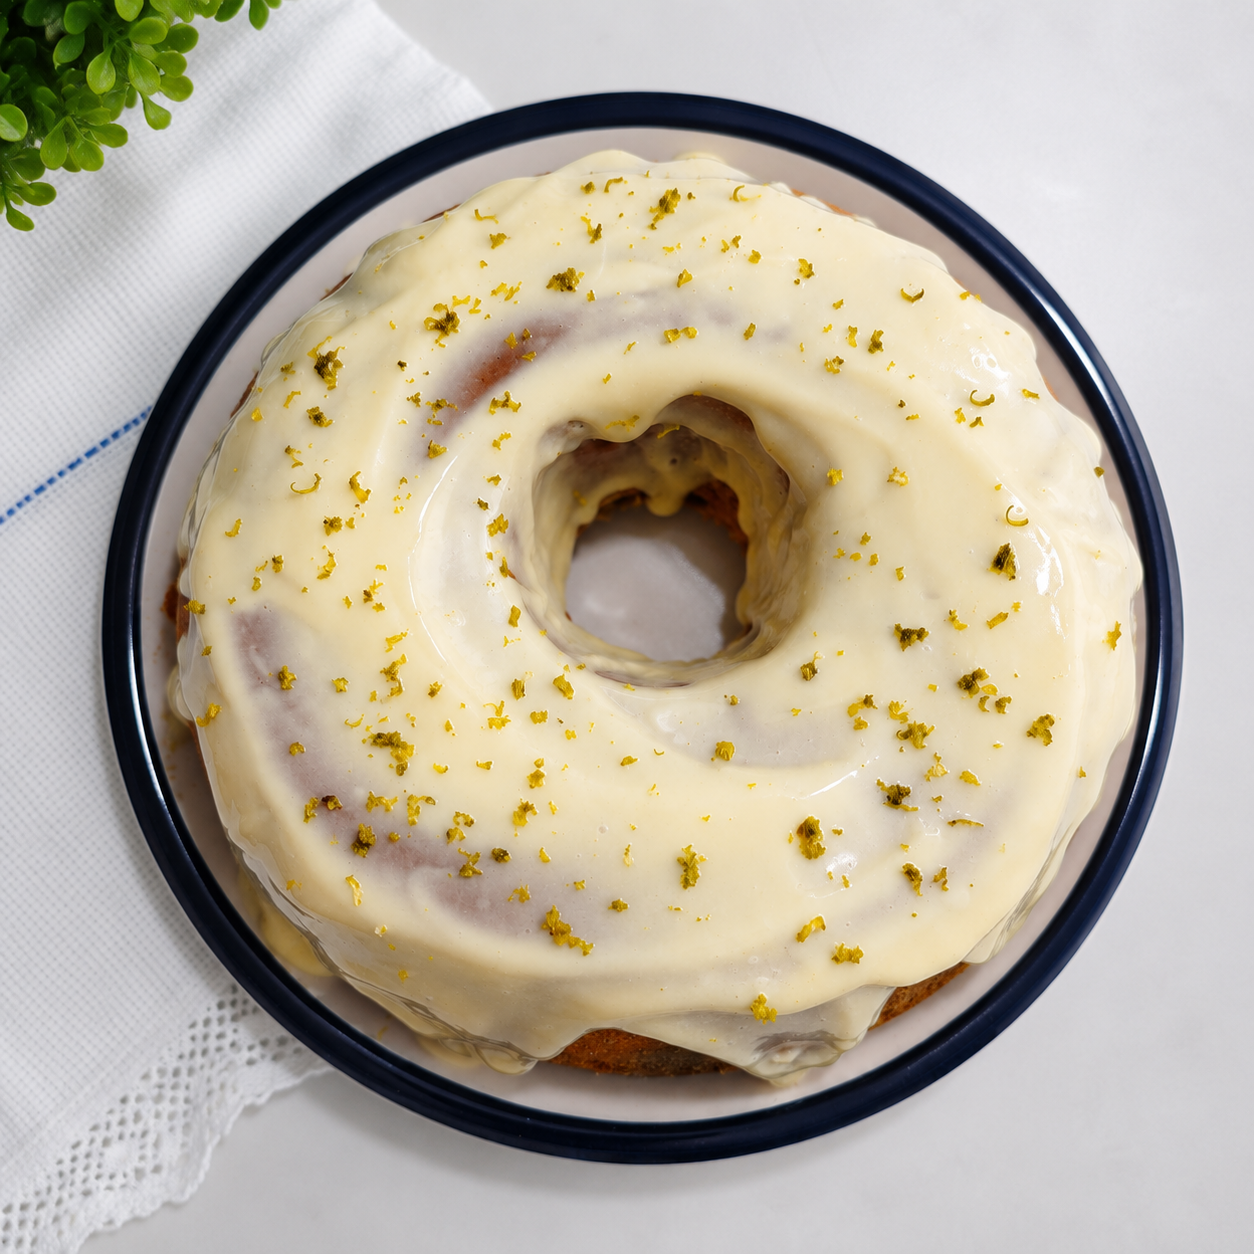
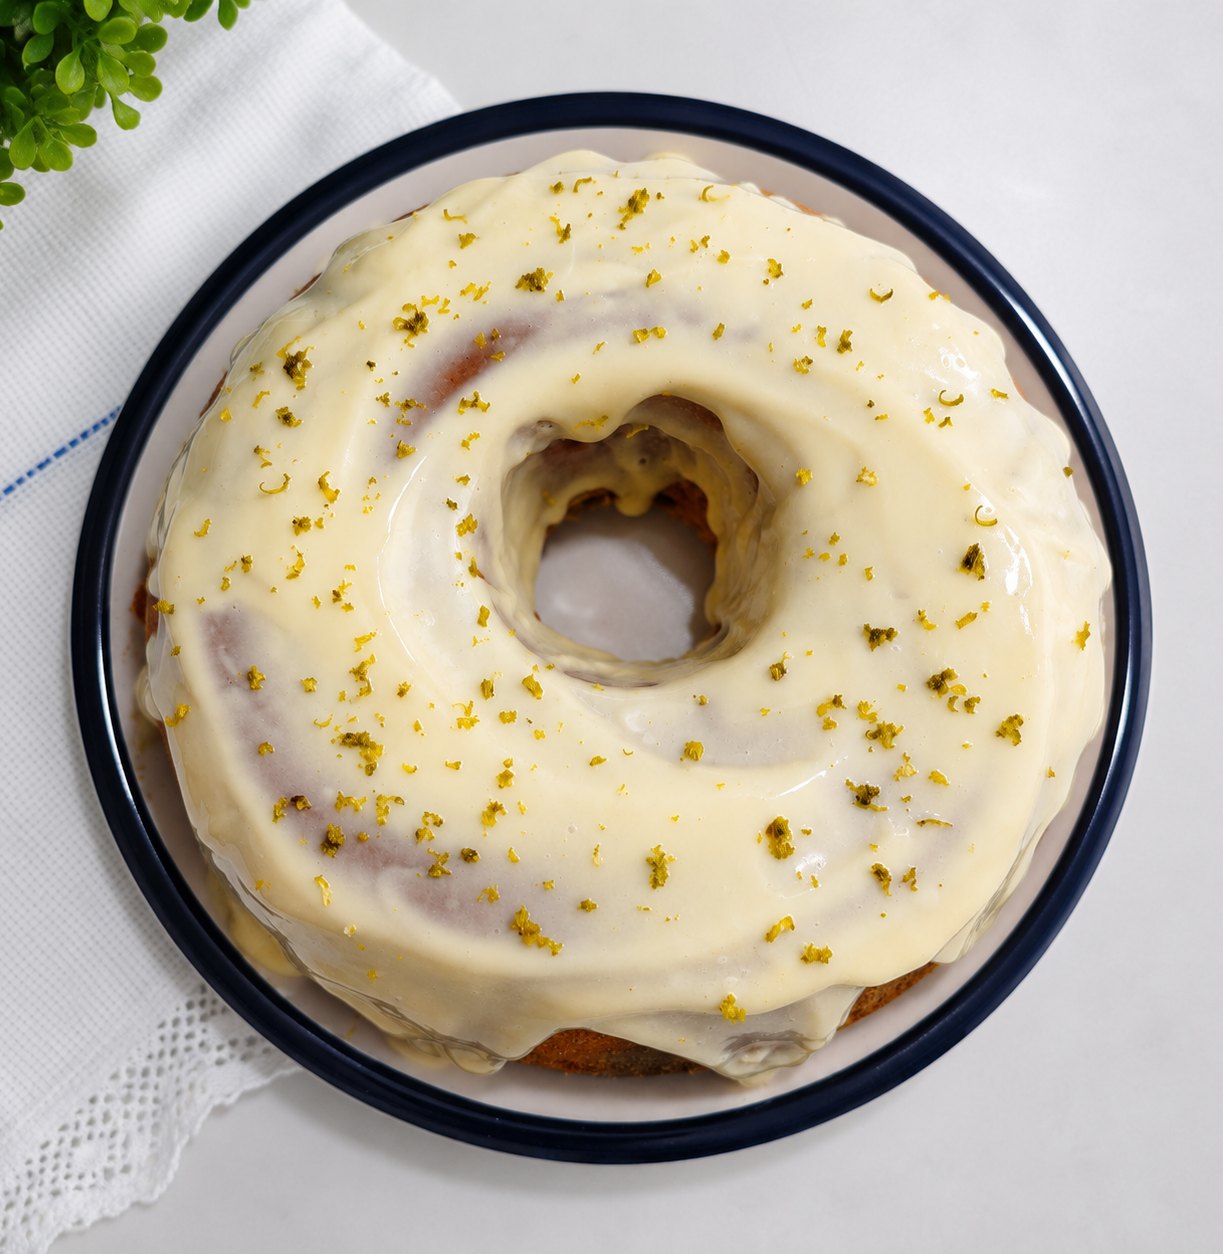
Novos produtos

diff --git a/public/script.js b/public/script.js
@@ -27,12 +27,23 @@ const produtos = [
       { type: "image", src: "/imgs/foto-brownie01.png", alt: "Brownie Tradicional" }
     ]
   },
+
+  {
+    nome: "Brownie de Prestígio",
+    categoria: "Doces Prontos",
+    desc: "Brownie de prestígio, com aquela casquinha crocante por fora e um centro super úmido e cremoso, combinado com um recheio generoso de coco. Feito na hora do seu pedido.",
+    preco: "R$ 11,99",
+    unidade: "unidade",
+    medias: [
+      { type: "image", src: "/imgs/foto-brownie-coco.png", alt: "Brownie Coco" }
+    ]
+  },
   
   {
     nome: "Brownie de Doce de Leite",
     categoria: "Doces Prontos",
     desc: "Por fora, uma casquinha delicadamente crocante. Por dentro, um recheio de doce de leite cremoso e cheio de sabor.",
-    preco: "R$ 10,00",
+    preco: "R$ 10,99",
     unidade: "unidade",
     medias: [
       { type: "image", src: "/imgs/foto-brownie-doceleite01.jpeg", alt: "Brownie Doce de Leite" },
@@ -45,12 +56,24 @@ const produtos = [
     nome: "Bolo de Laranja com Cobertura de Limão",
     categoria: "Doces Sob Encomenda",
     desc: "Bolo de laranja macio e fofinho, coberto com uma deliciosa cobertura de limão, trazendo o equilíbrio perfeito entre o doce e o cítrico. Feito na hora do seu pedido.",
-    preco: "R$ 14,00",
+    preco: "R$ 65,00",
     unidade: "unidade",
     medias: [
       { type: "image", src: "/imgs/foto-bolo-laranja.png", alt: "Bolo de Laranja" },
       { type: "image", src: "/imgs/foto-bolo-laranja02.png", alt: "Bolo de Laranja" },
       { type: "image", src: "/imgs/foto-bolo-laranja03.png", alt: "Bolo de Laranja" }
+    ]
+  },
+
+   {
+    nome: "Bombom de Morango na Travessa",
+    categoria: "Doces Sob Encomenda",
+    desc: "Bombom de morango na travessa, combinando a doçura do creme e do chocolate com o frescor cítrico do morango. Montado em camadas perfeitas e feito na hora do seu pedido.",
+    preco: "R$ 80,00",
+    unidade: "unidade",
+    medias: [
+      { type: "image", src: "/imgs/bombom-morango.jpeg", alt: "Bombom de Morango"},
+      { type: "image", src: "/imgs/bombom-morango02.jpeg", alt: "Bolo de Laranja" }
     ]
   }
 